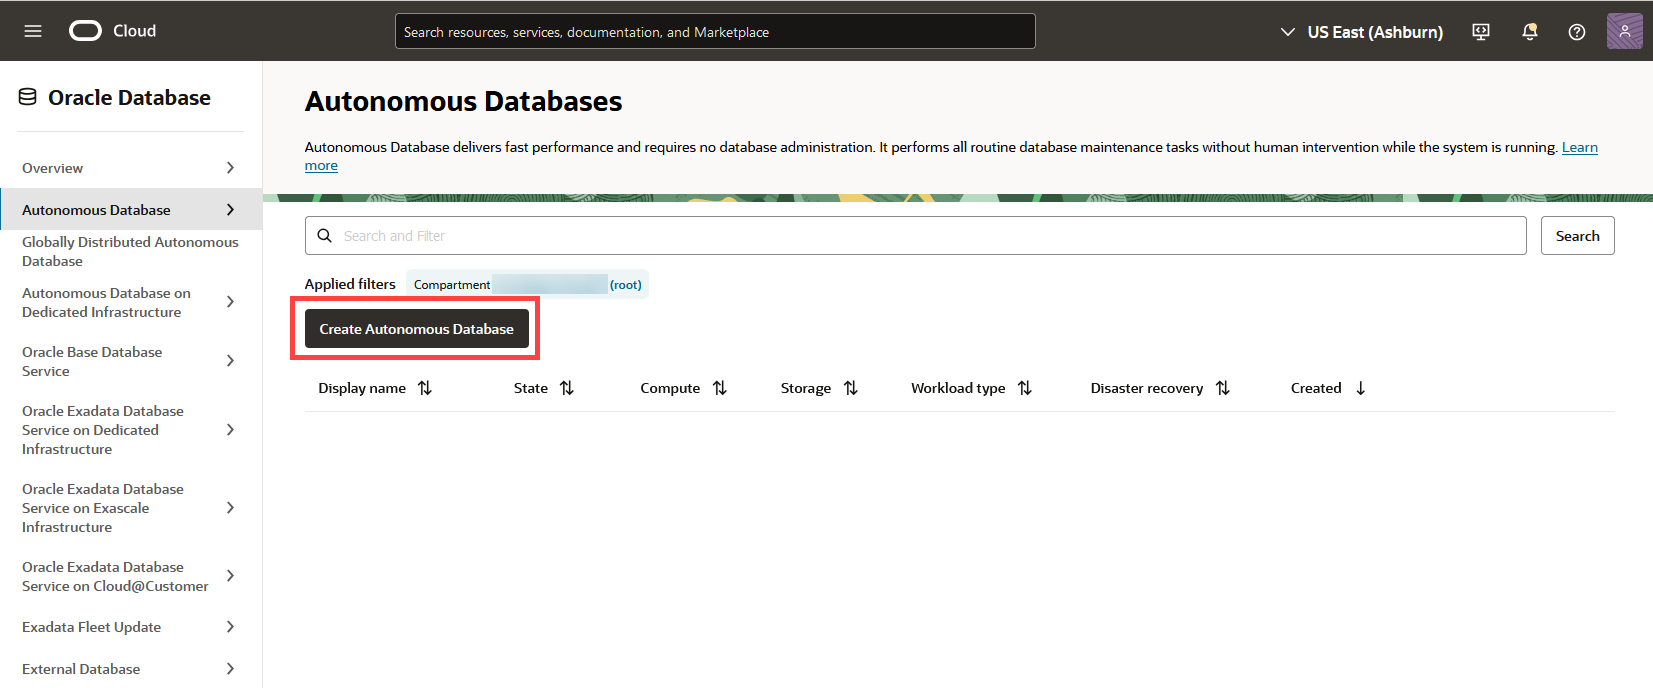
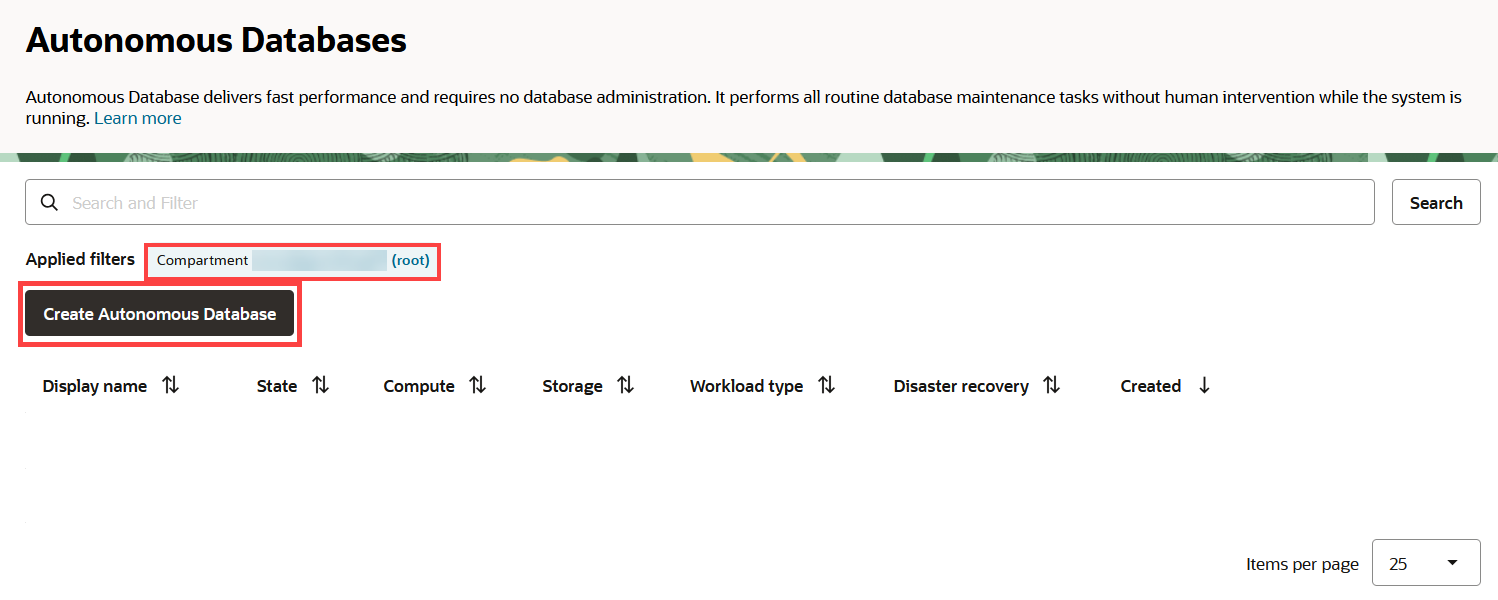
provision an adb topic edited

diff --git a/building-blocks/tasks/oml/prov-an-adb.md b/building-blocks/tasks/oml/prov-an-adb.md
@@ -11,11 +11,11 @@ To provision an Oracle Autonomous Database:
 
 	![Create ADW Database](images/adw-database-rw.png " ")
 
-	 Alternatively, you may click the left navigation pane on the upper left corner, click **Oracle Database** and then click **Autonomous Database**.
+	 Alternatively, you may click the Cloud menu icon on the upper left corner. This opens the left nagivation menu. Click **Oracle Database** and then click **Autonomous Database**.
 
 	![Autonomous Database under Oracle Database](images/database-adw-rw.png " ")
 
-2. From the Oracle Cloud Infrastructure console, on the Oracle Autonomous Database page choose your region and optionally select a compartment. By default, it will show the root compartment. Click **Create Autonomous Database**. This opens the _Create Autonomous Database Serverless_ page.
+2. On the Autonomous Databases page, click **Compartment** to select a compartment. By default, it will show the root compartment. Click **Create Autonomous Database**. This opens the _Create Autonomous Database Serverless_ page.
 
    ![Create Autonomous Database option](images/create-autonomous-db-rw.png " ")
 
@@ -48,7 +48,7 @@ To provision an Oracle Autonomous Database:
 
         > ![Configure Database](images/db-configuration-backup-rw.png " ")
 
-    * The **Advanced options** - **Compute Model** and **Bring your own license** are available only for a paid version.   
+    * The Advanced options - **Compute Model** and **Bring your own license** are available only for a paid version.   
 
         ![Configure Database](images/adv-options-rw.png " ") 
 
@@ -68,15 +68,19 @@ To provision an Oracle Autonomous Database:
 
 9. Under Advanced Options, the following options are available:
     * **Encryption Key:** 
-        * **Encrypt using an Oracle-managed key:** By default, Autonomous Database uses Oracle-managed encryption keys. Using Oracle-managed keys, Autonomous Database creates and manages the encryption keys that protect your data and Oracle handles rotation of the TDE master key. 
-        * Encrypt using a Customer Managed key. 
+        ![Encryption key](images/encryption-key-adb.png " ")
+        * **Encrypt using an Oracle-managed key:** By default, Autonomous Database uses Oracle-managed encryption keys. Using Oracle-managed keys, Autonomous Database creates and manages the encryption keys that protect your data and Oracle handles rotation of the TDE master key. We will use this option for this workshop. 
+        * **Encrypt using a Customer Managed-key.in this tenancy**
+        * **Encrypt using a customer Managed-key in a different tenancy**        * 
     * **Maintenance:** By default, the patch level is set to _Regular_ for an Always Free database. 
     * **Tools:** The following tools are enabled for an Always Free database - Oracle APEX, Database Actions, Graph Studio, Oracle Machine Learning user interface, Data Transforms, and Web Access. 
-        > **Note:** You cannot edit the configuration of these tools for an Always Free version. 
-    * **Security Attributes:**
+        
+        > **Note:** You cannot edit the configuration of these tools for an Always Free database. 
+    * **Security Attributes:** You can add a security attribute to control access for your resources using Zero Trust Packet Routing (ZPR) policies. To enter security attributes during provisioning, you must already have set up security attributes with Zero Trust Packet Routing. You also can add security attributes after provisioning. For this workshop, we will leave this field as is. 
     * **Tags:** You can add additional metadata to reorganize your resources. The options are:
         * In Namespace, if you select **None (free-form)**, enter a **Key** and add a **Value** to it. 
         * In Namespace, if you select **Oracle-tags** you have the option to choose _CreatedBy_ or _CreatedOn_ in the **Key** field. Assign a value to the selected key, as applicable. 
+        ![Oracle Tags](images/oracle-tags.png " ")
 
 10. Click **Create**.  The Oracle Autonomous Database instance starts provisioning. It will show the status **Provisioning**. .
     ![ADB listed](images/adw-starts-provisioning-rw.png " ")
